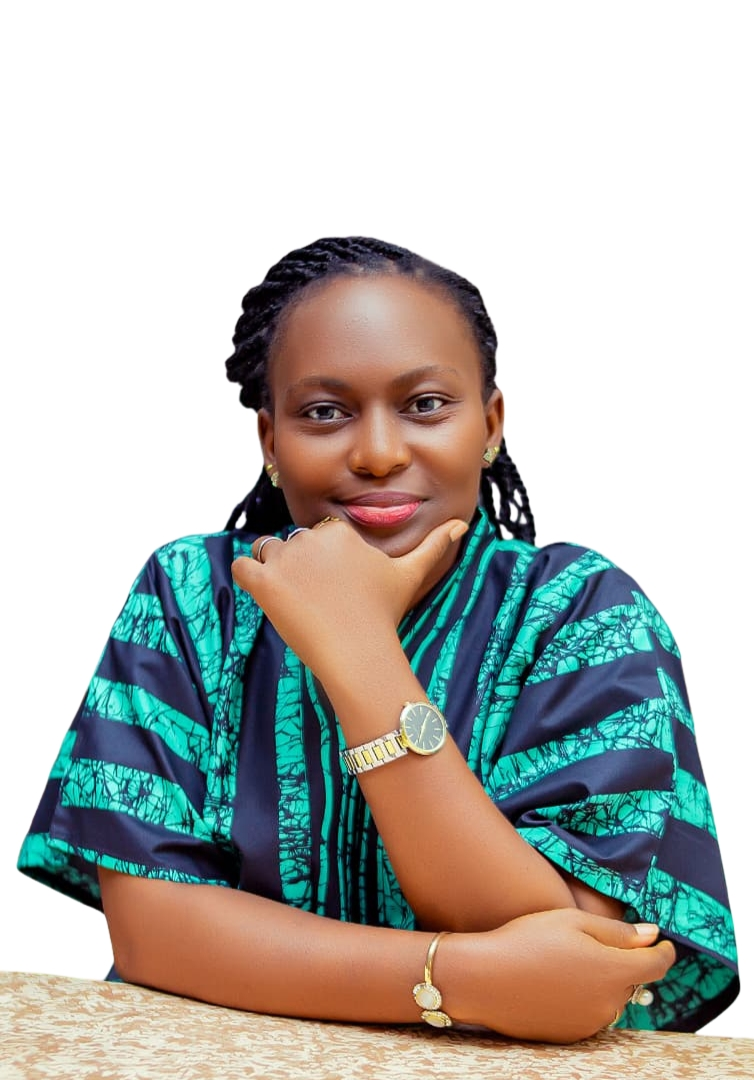
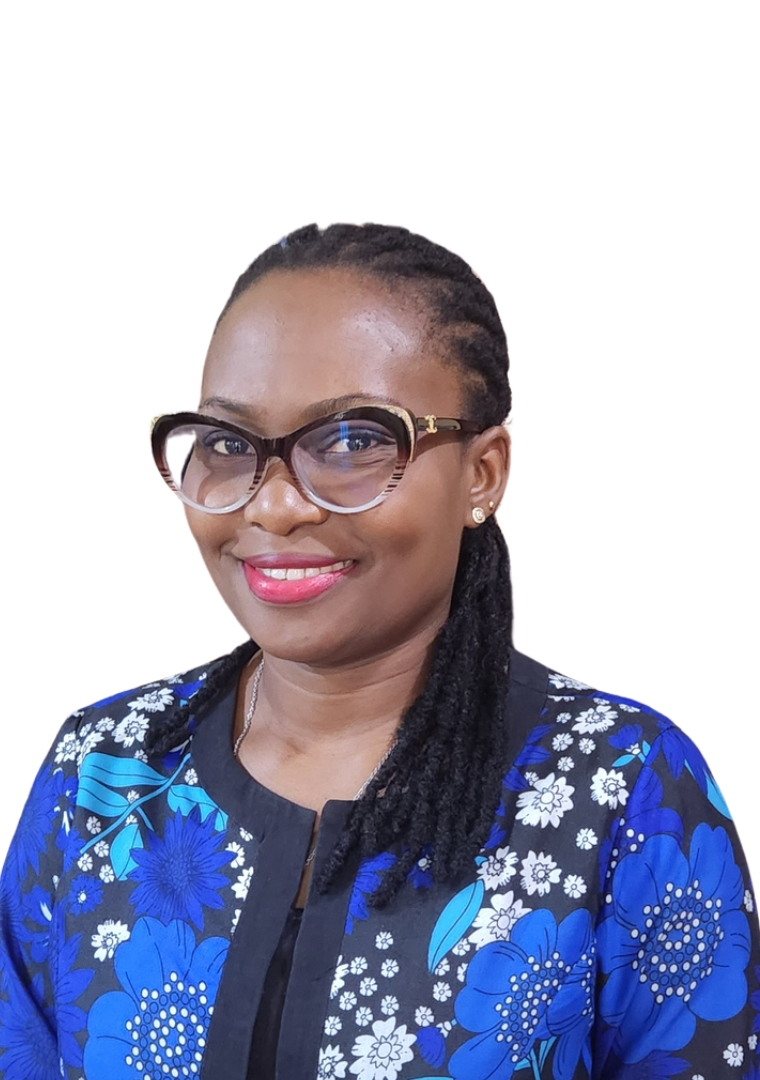
chore: client requested changed 19-08026

diff --git a/app/(home)/-components/HomesCarousels.tsx b/app/(home)/-components/HomesCarousels.tsx
@@ -15,29 +15,37 @@ import { TestimonialCarouselShared } from "./CarouselsShared";
 
 const testimonials: Array<{ quote: string; title: string }> = [
 	{
-		quote: "I was amazed at the consistency and how far the girls had taken educating these girls. I encourage the girls to learn as much as they can from their teachers. I also encourage my fellow parents to follow up their children.",
-		title: "A beneficiary’s mother",
+		quote: "Education is one of the greatest gifts we can give a child. I deeply appreciate your hard work and dedication to ensuring these young girls have access to learning and opportunities that will shape their future.",
+		title: "ASH Beneficiary's Father",
 	},
 	{
-		quote: "Education is one of the important things a growing child should be exposed to. That's why I am really grateful for your hard work and dedication to providing for these young girls.",
-		title: "A beneficiary’s father",
+		quote: "Volunteering with this initiative has helped me become more confident in public speaking. It's been incredibly fulfilling to contribute to the growth and development of younger girls while growing personally through the experience.",
+		title: "R. E., Volunteer, ASH",
 	},
 	{
-		quote: "I met new people, made friends that became sisters. Built my confidence and determination to complete a task despite any set backs.",
-		title: "B. A, Participant",
+		quote: "Beyond paying my school fees, this sponsorship has given me extra academic support that has helped me become a better student. Thank you for changing my life.",
+		title: "J. M., JSS2 Student, Beneficiary, TACOTS",
 	},
 	{
-		quote: "I really enjoyed the Digital Literacy & CBT Readiness Bootcamp, especially the Excel session where I learned how to use functions like SUM. The training increased my confidence in using a computer and made me more interested in pursuing tech-related skills",
-		title: " K.E, Beneficiary, E-Learning for all by Magenta Heart",
+		quote: "Since receiving this scholarship, my daughter's attitude has changed remarkably. She is more respectful, responsible, and committed to her studies. I am grateful for the positive impact this has had on our family.",
+		title: "U. I., Mother of a Beneficiary, TACOTS",
 	},
 	{
-		quote: "Without this sponsorship, I would not be able to attend Rosary High School. I am grateful to my sponsors for supporting me and others, and I pray for their long life and prosperity.",
-		title: "F. A (Student, Holy Rosary High School, JSS2)",
+		quote: "I'm grateful for this programme. Everything was well organized, and no one had to pay for consultations or medications. It was truly a blessing to our community.",
+		title: "Awlaw Medical Outreach Beneficiary ",
 	},
 	{
-		quote: "Since my son began this scholarship, I have seen remarkable changes in him—he has grown, is eager to learn, and even asked to join a holiday learning program. I am grateful to God and the sponsors, and I pray they are blessed with good health and more opportunities to do good.",
-		title: "N.C (Father of Beneficiary)",
+		quote: "Volunteering was both fulfilling and beautiful. It reminded me of the impact we can make when we serve together.",
+		title: "Valerie Otaigbe, Volunteer, Awlaw Outreach",
 	},
+	{
+		quote: "The Digital Literacy Bootcamp made technology less intimidating. I especially enjoyed learning Excel functions and now feel much more confident using a computer and preparing for CBT exams.", 
+		title: " K. E., Beneficiary, E-Learning for all by Magenta Heart"
+	},
+	{
+		quote: "This was one of the most practical and teacher-friendly workshops I've ever attended. It inspired me to apply what I've learned and make a meaningful difference in my school and community.",
+		title: "Teacher Participant, Teachers' Training "
+	}
 ];
 
 export function HomeTestimonialCarousel() {

diff --git a/app/(home)/social-initiatives/tacots/-components/TacotsCarousels.tsx b/app/(home)/social-initiatives/tacots/-components/TacotsCarousels.tsx
@@ -4,28 +4,28 @@ import { TestimonialCarouselShared } from "@/app/(home)/-components/CarouselsSha
 
 const stories = [
 	{
-		quote: "This scholarship has helped my family in countless ways I cannot fully express. I am overjoyed and grateful, and I pray that the sponsors are blessed in all they do, with abundant rewards and protection from the Lord.",
-		title: "E.O (Mother of Beneficiary)",
+		quote: "This opportunity transformed my daughter's life. She has become more disciplined, focused, and enthusiastic about learning. We truly believe this support was a blessing sent at the right time.",
+		title: "E. O., Mother of a Beneficiary, TACOTS",
 	},
 	{
-		quote: "Since my son began this scholarship, I have seen remarkable changes in him—he has grown, is eager to learn, and even asked to join a holiday learning program. I am grateful to God and the sponsors, and I pray they are blessed with good health and more opportunities to do good",
-		title: "N.C (Father of Beneficiary)",
-	},
-	// {
-	// 	quote: "After losing my husband, I could not imagine how to train my daughter, but this scholarship came as God’s answer to my prayers. My daughter has changed positively—she is calmer, listens to corrections, and reads more, though still playful as a child. I am deeply thankful to the sponsors for remembering families like mine and pray that God strengthens and blesses them for all they have done.",
-	// 	title: "A.I (Mother of Beneficiary)",
-	// },
-	{
-		quote: "This sponsorship has helped my parents by paying my school fees, and I am happy to be in JSS2. I thank my sponsors for supporting me, and I always keep them in my prayers.",
-		title: "C. E (Student, St. Vincent de Paul Seminary, JSS2)",
+		quote: "Since joining the program, my son has become more eager to learn and continues to seek opportunities to improve himself. Thank you for believing in his potential.",
+		title: "N. C., Father of a Beneficiary, TACOTS",
 	},
 	{
-		quote: "The sponsorship has lifted a financial burden from my family and has given me a better academic environment to grow in. I thank the sponsors sincerely and pray God blesses them with long life and endless favor.",
-		title: "P.A (Student, Holy Rosary High School, JSS2)",
+		quote: "This sponsorship has lifted the burden of my school fees and made it possible for me to continue my education. I am deeply grateful to my sponsors for believing in me, and I keep them in my prayers.",
+		title: "C. E., JSS2 Student, Beneficiary, TACOTS",
 	},
 	{
-		quote: "This scholarship has lifted the heavy financial load from my mother, leaving her only with minor costs. I am very happy and thankful, and I pray that the good Lord blesses the sponsors for all they’ve done.",
-		title: "A.P  (Student, St. Vincent de Paul Seminary, JSS2)",
+		quote: "The scholarship has eased my family's financial burden and given me a better environment to learn and grow. I sincerely appreciate everyone who made this possible.",
+		title: "P. A., JSS2 Student, Beneficiary, TACOTS ",
+	},
+	{
+		quote: "This scholarship lifted a heavy burden from my mother's shoulders and gave me the opportunity to continue my education. I am sincerely thankful for your support.",
+		title: "A. P., JSS2 Student, Beneficiary, TACOTS",
+	},
+	{
+		quote: "Words cannot fully express how much this scholarship has helped my family. It has brought us hope, relief, and joy. May God richly bless everyone who made it possible.",
+		title: "S. I., Mother of a Beneficiary, TACOTS",
 	},
 ];
 

diff --git a/app/(home)/capacity-building/-components/CapacityBuildingCarousels.tsx b/app/(home)/capacity-building/-components/CapacityBuildingCarousels.tsx
@@ -33,31 +33,31 @@ export function CapacityBuildingMomentsCarousel() {
 
 const capacityBuildingTestimonials = [
 	{
-		quote: "I've always been a pessimist until now, this programme opened my eyes to my abilities and how much people can actually do if they put their miss to things",
-		title: "I. H, Participant",
+		quote: "This was one of the most practical and teacher-friendly workshops I've ever attended. It inspired me to apply what I've learned and make a meaningful difference in my school and community.",
+		title: "Teacher Participant, Teachers' Training ",
 	},
 	{
-		quote: "Learning becomes easy when it is child-centered and made fun using technology",
-		title: "S.C, Member of Management Team",
+		quote: "The training changed my understanding of diabetes in children. I now know how to recognize warning signs and support affected learners with empathy.",
+		title: "A. A., Teacher, Participant, Teachers' Training",
+	},
+		{
+		quote: "CedarPrize equipped me with practical skills in fundraising, proposal writing, teamwork, conflict management, and community outreach. It has empowered me to lead initiatives with confidence.",
+		title: "A. U., Participant,  CedarPrize",
 	},
 	{
-		quote: "I think this opportunity should be sung in the ears of the young girls, but the main problem is if they would listen. And I liked the way we were always reminded to apply the things we learnt in our everyday, it's really helpful",
-		title: "A.A, Participant",
+		quote: "Having dedicated time for team bonding during camp made the experience even more meaningful.",
+		title: "S. I., Participant, CedarEdge",
 	},
 	{
-		quote: "The training was an eye-opener for me. I got to learn that people already suffer from some of the symptoms mentioned today yet they are unaware but being part of this training I believe I can help the society at large",
-		title: "C.C, Teacher, Hillrange Primary School",
+		quote: "The Digital Literacy Bootcamp made technology less intimidating. I especially enjoyed learning Excel functions and now feel much more confident using a computer and preparing for CBT exams.",
+		title: "K. E., Beneficiary, E-Learning for all by Magenta Heart",
 	},
 	{
-		quote: "I was very surprised to hear that diabetes in children is not as rare as I always thought. This training has made me realize that there can be people with this ailment around us even in my class and it's up to me as a teacher to encourage them to get medical advice.",
-		title: "C.S, Teacher, Osisatech Boys’ Secondary School",
-	},
-	{
-		quote: "I have become more participative in group activities and have even started personally planning events and projects",
-		title: "L. I, Participant",
+		quote: "The training was practical, engaging, and easy to understand. I gained valuable digital skills and would gladly recommend it to other students.",
+		title: "M. O., Beneficiary, E-Learning for all by Magenta Heart",
 	},
 ];
 
 export function CapacityBuildingTestimonialCarousel() {
-	return <TestimonialCarouselShared className="lg:mt-12" testimonials={capacityBuildingTestimonials} />;
+	return <TestimonialCarouselShared className="lg:mt-8" testimonials={capacityBuildingTestimonials} />;
 }

diff --git a/app/(home)/social-initiatives/ash/-components/AshCarousels.tsx b/app/(home)/social-initiatives/ash/-components/AshCarousels.tsx
@@ -37,24 +37,24 @@ export function AshMomentsCarousel() {
 
 const stories = [
 	{
-		quote: "I was amazed at the consistency and love for the girls had taken educating these girls. I encourage the girls to learn as much as they can from their teachers. I also encourage my fellow parents to follow up their children",
-		title: "(A beneficiary's mother)",
+		quote: "Knowing this project is by undergraduates makes it even more inspiring. I can only imagine the dedication it took to make it a reality. I'm grateful that my sisters have mentors who are genuinely invested in their growth and future. Thank you for making such a meaningful difference.",
+		title: "P. E., ASH Beneficiary's Guardian",
 	},
 	{
-		quote: "Education is one of the important things a growing child should be exposed to. That's why I am really grateful for your hard work and dedication to providing for these young girls",
-		title: "(A beneficiary's father)",
+		quote: "I was truly impressed by the consistency and commitment of the volunteers in educating these girls. My encouragement to the girls is to make the most of every opportunity to learn, and I also urge fellow parents to stay actively involved in their children's educational journey.",
+		title: "ASH Beneficiary's Mother",
 	},
 	{
-		quote: "Seeing that this project was pioneered by undergraduates, I would like to commend them because I know it wasn't easy. I’m happy that my sisters have people out there who are also intentional about their growth. I'm extremely thankful",
-		title: "P.E. (A beneficiary's guardian)",
+		quote: "Education is one of the greatest gifts we can give a child. I deeply appreciate your hard work and dedication to ensuring these young girls have access to learning and opportunities that will shape their future.",
+		title: "ASH Beneficiary's Father",
 	},
 	{
-		quote: "This experience has shaped me more as a person, I've learnt to be more patient, time management and self control. I see things from a different view now from what I've known all my life. For the girls, I hope they become the best version of themselves",
-		title: "K. O, Volunteer",
+		quote: "Volunteering with this initiative has helped me become more confident in public speaking. It's been incredibly fulfilling to contribute to the growth and development of younger girls while growing personally through the experience.",
+		title: "R. E., Volunteer, ASH",
 	},
 	{
-		quote: "In the course of volunteering, I've become more confident in speaking in public, and I’m happy I could be of help to the development of girls younger than me",
-		title: "R. E, Volunteer",
+		quote: "This experience has transformed me in so many ways. I've developed greater patience, improved my time management, and learned the importance of self-discipline. It has changed my perspective on life, and my hope is that every girl we serve grows into the very best version of herself.",
+		title: "K. O., Volunteer, ASH",
 	},
 ];
 

diff --git a/app/(home)/social-initiatives/outreaches/page.tsx b/app/(home)/social-initiatives/outreaches/page.tsx
@@ -32,8 +32,8 @@ function OutreachesPage() {
 						title="Be Part of the Impact"
 						description="Join us as we bring support, opportunity, and hope to communities in need"
 						actions={[
-							{ href: "/get-involved/volunteer", label: "VOLUNTEER" },
-							{ href: "/get-involved/partner", kind: "icon-link", label: "Partner with us" },
+							{ href: "/get-involved/volunteer", label: "Volunteer" },
+							{ href: "/get-involved/partner", kind: "icon-link", label: "Partner With Us" },
 						]}
 					/>
 				</>
@@ -236,24 +236,28 @@ function OutreachAboutSection() {
 
 const stories = [
 	{
-		quote: "Thank God for them , they came well prepared, I saw team spirit amongst them as they taught the pupils. I saw more enlightenment from the teachers who were trained.",
-		title: "Catherine Chukwu, Headmistress Daniel Frouscher Nursery and Primary school",
+		quote: "I am deeply grateful for the free medical care, medications, and laboratory tests. This outreach brought quality healthcare to people who truly needed it.",
+		title: "Awlaw Medical Outreach Beneficiary",
 	},
 	{
-		quote: "I am happy about this program you've brought to us, I'm also happy that a lot of you came to do it and are doing it well. No one is paying for anything even the drugs administered.",
-		title: "Medical outreach beneficiary",
+		quote: "Volunteering was both fulfilling and beautiful. It reminded me of the impact we can make when we serve together.",
+		title: "Valerie Otaigbe, Volunteer, Awlaw Medical Outreach",
 	},
 	{
-		quote: "It was fun, it was educating, it was eye-opening, interesting and inspiring. I think this has been the happiest I've been in a very long time.",
-		title: "Grace Obi, Volunteer",
+		quote: "Before this programme, I was confused about my future. Now I have clarity, direction, and confidence in the career I want to pursue.",
+		title: "Eze Victoria, SS1 Student, Career Pathway Program",
 	},
 	{
-		quote: "This outreach renewed the community's hope in the power of education and human connection.",
-		title: "Community Leader, Awka",
+		quote: "The programme helped me clearly understand the career I want to pursue. I can now confidently choose my own path instead of being influenced by others.",
+		title: "Okigwe Emmanuella, SS2 Student, Career Pathway Program",
 	},
 	{
-		quote: "I am very grateful for the free medications and lab tests.",
-		title: "Medical Outreach Beneficiary",
+		quote: "Mentoring students reminded me that guidance can change a young person's future. Seeing them gain clarity about their dreams was incredibly fulfilling.",
+		title: "Munachi Otika, Volunteer, Career Pathway Program",
+	},
+		{
+		quote: "Every conversation with the students reminded me why service matters. It was a truly rewarding experience.",
+		title: "Oge, Volunteer, Career Pathway Program",
 	},
 ];
 

diff --git a/app/(home)/capacity-building/page.tsx b/app/(home)/capacity-building/page.tsx
@@ -4,7 +4,7 @@ import { ForWithWrapper } from "@/components/common/for";
 import { cnJoin } from "@/lib/utils/cn";
 import { FinalCTASection } from "../-components/FinalCTASectionShared";
 import { Main } from "../-components/Main";
-import { CapacityBuildingMomentsCarousel } from "./-components/CapacityBuildingCarousels";
+import { CapacityBuildingMomentsCarousel, CapacityBuildingTestimonialCarousel } from "./-components/CapacityBuildingCarousels";
 import { RegisterProgramAccordion } from "./-components/RegisterProgramAccordion";
 
 function CapacityBuildingPage() {
@@ -19,6 +19,11 @@ function CapacityBuildingPage() {
 					</div>
 
 					<FeaturedCapacityProgramsSection />
+
+					<div className={ctx.constrainedClassName}>
+						<CapacityTestimonialsSection />
+					</div>
+
 
 					<div className={ctx.constrainedClassName}>
 						<MomentsSection />
@@ -76,7 +81,7 @@ const trainingFormats: Array<{ description: string; theme: "black" | "red" | "ye
 		description:
 			"Mentorship-driven learning experiences that help young people build confidence, leadership, and future-ready skills.",
 		theme: "yellow",
-		title: "Youth Development Programme",
+		title: "Youth Development Programmes",
 	},
 	{
 		description:
@@ -256,6 +261,16 @@ function RegisterPromptSection() {
 	return (
 		<section className="mt-5 lg:mt-9">
 			<RegisterProgramAccordion />
+		</section>
+	);
+}
+
+
+function CapacityTestimonialsSection() {
+	return (
+		<section className="flex flex-col gap-8 lg:gap-2">
+			<h2 className="text-center text-[24px]/[1.2] lg:text-[40px]">Voices from Our Capacity Building Programs</h2>
+			<CapacityBuildingTestimonialCarousel />
 		</section>
 	);
 }

diff --git a/app/(home)/page.tsx b/app/(home)/page.tsx
@@ -228,7 +228,7 @@ function OurProgrammesSection() {
 			<header className="flex flex-col gap-3 lg:flex-row lg:justify-between lg:gap-9.5">
 				<h2 className="shrink-0 text-[28px]/[1.2] lg:text-[48px]/none">Our Programmes</h2>
 				<p className="max-w-[825px] text-[13px]/5 text-black lg:text-base/7">
-					At CedarRise, our social initiatives focus on expanding opportunity for underserved
+					At CedarRise, our social initiatives focus on expanding opportunities for underserved
 					communities, particularly children and young people who face barriers to education,
 					mentorship, and personal development. Through targeted programs and community outreach, we
 					work to restore access, strengthen support systems, and create pathways for long-term

diff --git a/app/(home)/capacity-building/-components/RegisterProgramAccordion.tsx b/app/(home)/capacity-building/-components/RegisterProgramAccordion.tsx
@@ -12,15 +12,15 @@ function RegisterProgramAccordion() {
 
 	const registrationLinks = [
 		{
-			href: "#",
+			href: "https://docs.google.com/forms/d/e/1FAIpQLSdcP06c3YsCwTo0RPPRKz_lA1_JnESDj7phZGutnoJ8YdsOBg/viewform?usp=publish-editor",
 			label: "Are you a secondary school student?",
 		},
 		{
-			href: "#",
+			href: "https://docs.google.com/forms/d/e/1FAIpQLSe19vkUw_T1aVrwWQuYBLqKcMlZTeFJIKRQyFloQOkNvLXFhQ/viewform?usp=publish-editor",
 			label: "Are you an undergraduate?",
 		},
 		{
-			href: "#",
+			href: "https://docs.google.com/forms/d/e/1FAIpQLSfv6peEUtuOOca1PUZjPoo34j6lRnzf7iEaywZGb4A5FI-EMA/viewform?usp=publish-editor",
 			label: "Are you a professional?",
 		},
 		{

diff --git a/app/(home)/social-initiatives/tacots/page.tsx b/app/(home)/social-initiatives/tacots/page.tsx
@@ -274,8 +274,8 @@ function TacotsApproachSection() {
 								</h4>
 
 								<div className="flex flex-col gap-2">
-									<h3 className="text-[16px]/[1.2] lg:text-[20px]">{step.title}</h3>
-									<p className="text-[10px]/4 text-pretty text-cedar-white/80 lg:text-[12px]/5">
+									<h3 className="text-[16px]/[1.2] lg:text-[24px]">{step.title}</h3>
+									<p className="text-[10px]/4 text-pretty text-cedar-white/80 lg:text-[16px]/5">
 										{step.description}
 									</p>
 								</div>

diff --git a/app/(home)/social-initiatives/ash/page.tsx b/app/(home)/social-initiatives/ash/page.tsx
@@ -176,7 +176,7 @@ const studentGains = [
 	"Academic improvement & structured tutoring",
 	"Confidence & leadership development",
 	"Mentorship & guidance",
-	"Creative expression & performance arts",
+	"Skills development & creative expression through performance arts",
 ];
 
 function StudentGainsSection() {

diff --git a/assets/images/social-initiatives/tacots/index.ts b/assets/images/social-initiatives/tacots/index.ts
@@ -1,2 +1,2 @@
 export { default as heroImg } from "./hero-img.svg?override";
-export { default as approachSectionImg } from "./approach-section-img.svg?override";
+export { default as approachSectionImg } from "./approach-section-img.webp";
